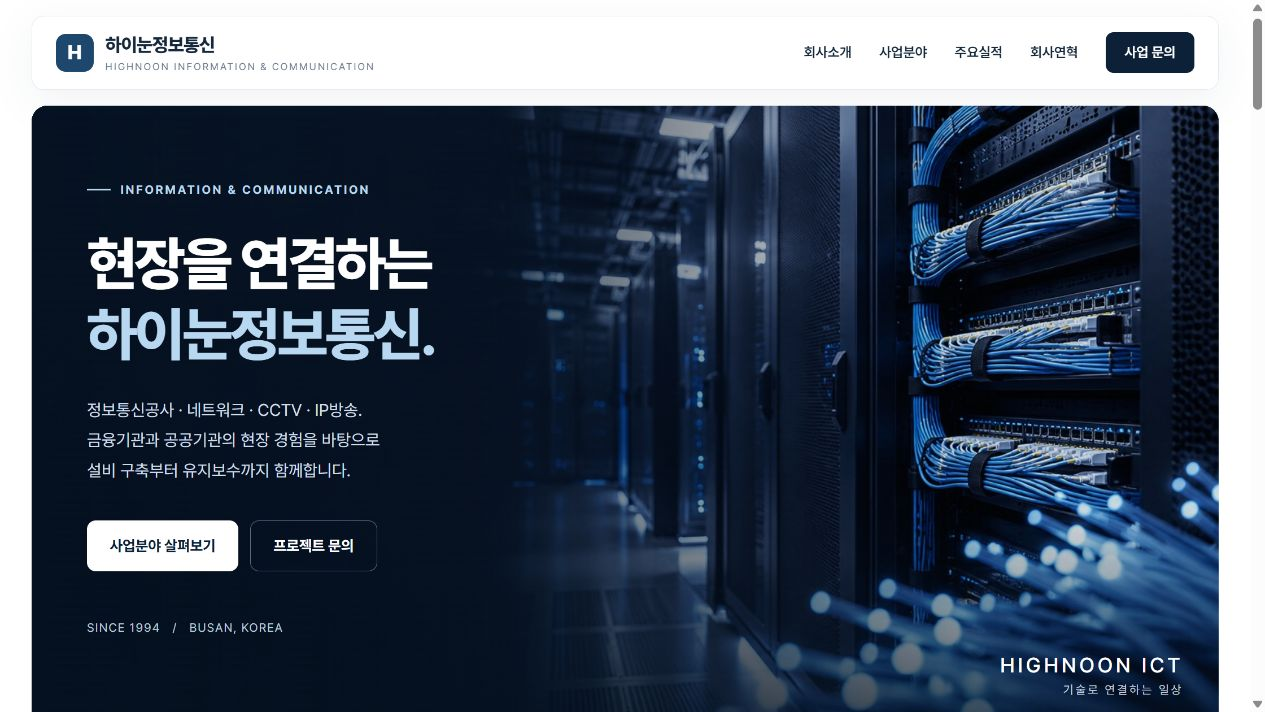
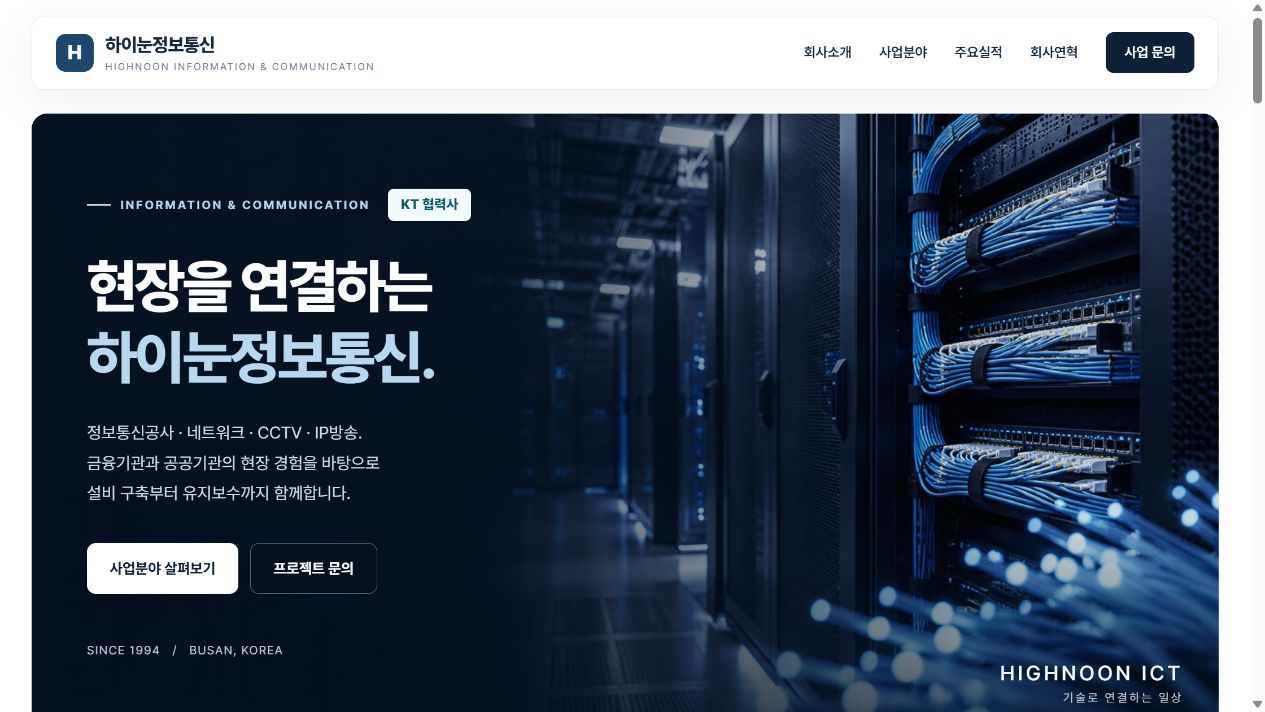
Publish KT partner badge and official introduction link

diff --git a/index.html b/index.html
@@ -24,6 +24,7 @@
     .hero{display:block;min-height:630px;border-radius:16px;background:#071324}.hero-copy{padding:76px 56px 62px;max-width:690px}.hero h1{font-size:clamp(38px,4.6vw,64px);line-height:1.22}.hero h1 span{color:#b8d7f0}.hero-desc{color:#d1dfeb}.hero-visual{position:absolute;inset:0;height:100%;pointer-events:none}.hero-visual img{filter:none;opacity:1;object-position:center}.hero-visual:after{background:linear-gradient(90deg,rgba(5,17,32,.93) 0%,rgba(5,17,32,.73) 34%,rgba(5,17,32,.13) 78%),linear-gradient(0deg,rgba(5,17,32,.75),transparent 36%)}.visual-label{right:36px;bottom:30px}.visual-label strong{font-size:21px;letter-spacing:3px}.hero-foot{color:#bbcede}.hero .eyebrow{color:#b8d7f0}.nav-shell{border-radius:12px}.brand-symbol{background:#1d476d}.service-feature{display:grid;grid-template-columns:1.05fr .95fr;background:white;border-radius:18px;overflow:hidden;margin-bottom:24px;border:1px solid rgba(42,70,105,.08)}.service-feature img{width:100%;height:100%;min-height:340px;max-height:410px;object-fit:cover}.service-feature-copy{padding:45px 40px;align-self:center}.service-feature-copy .eyebrow{font-size:11px}.service-feature-copy h3{font-size:29px;margin-top:18px;line-height:1.35}.service-feature-copy p{margin-top:18px;color:var(--muted);font-size:16px}.service-keywords{display:flex;flex-wrap:wrap;gap:12px;margin-top:25px}.service-keywords span{font-size:13px;font-weight:650;color:#355b7b;border-bottom:2px solid #bfd1df;padding-bottom:7px}.business-inner{min-height:250px}.business-card:first-child .business-inner{background:#14354e}
     @media(max-width:1050px){.hero-copy{padding-left:36px;max-width:610px}.service-feature-copy{padding:30px}}@media(max-width:767px){.hero{min-height:650px;border-radius:14px}.hero-copy{padding:40px 25px 170px;max-width:none}.hero h1{font-size:38px}.hero-desc{font-size:16px;max-width:290px}.hero-visual{position:absolute;height:100%;inset:0}.hero-visual img{object-position:63% center}.hero-visual:after{background:linear-gradient(180deg,rgba(5,17,32,.94),rgba(5,17,32,.78) 52%,rgba(5,17,32,.2)),linear-gradient(90deg,rgba(5,17,32,.4),transparent)}.visual-label{bottom:24px;right:24px}.visual-label strong{font-size:20px}.service-feature{grid-template-columns:1fr}.service-feature img{min-height:0;height:220px}.service-feature-copy{padding:28px 25px}.service-feature-copy h3{font-size:25px}.service-keywords{gap:10px}}
     body h2{font-size:clamp(29px,3vw,43px);font-weight:720;letter-spacing:-1.6px;line-height:1.3;margin-top:18px}body h3{font-size:24px;letter-spacing:-.7px;line-height:1.4;font-weight:650}@media(max-width:767px){body h2{font-size:31px;letter-spacing:-1px}body h3{font-size:22px}}
+    .hero-kicker{display:flex;gap:18px;align-items:center;flex-wrap:wrap}.partner-badge{display:inline-flex;padding:6px 13px;background:#f3fafb;color:#0b5964;border-radius:6px;font-size:14px;font-weight:750;letter-spacing:0}.partner-panel{display:flex;justify-content:space-between;align-items:center;gap:30px;padding:30px 34px;margin-top:30px;background:#f1f8fa;border:1px solid #d5e5e9;border-left:4px solid #148291;border-radius:12px}.partner-caption{font-size:12px;font-weight:650;color:#156775}.partner-panel h2{font-size:25px;margin-top:7px;letter-spacing:-.8px;line-height:1.4}.partner-panel p{font-size:15px;color:#53697a;margin-top:8px}.partner-link{flex-shrink:0;background:white;border:1px solid #bfd7df;border-radius:8px;padding:13px 20px;color:#125e6b;font-size:15px;font-weight:650;text-align:center;min-height:50px}.partner-link:hover{background:#e1f1f4;transform:translateY(-2px)}.new-tab-note{display:block;font-size:11px;font-weight:400;margin-top:3px;color:#526c76}.footer-links{flex-wrap:wrap}@media(max-width:767px){.hero-kicker{gap:12px}.partner-badge{font-size:13px}.hero-copy{padding-top:34px}.hero h1{margin-top:22px}.partner-panel{display:block;padding:23px 20px;margin-top:24px}.partner-panel h2{font-size:23px}.partner-panel p{font-size:14px}.partner-link{display:block;margin-top:20px}.footer-links{gap:18px}}
   </style>
 </head>
 <body>
@@ -36,14 +37,15 @@
   <main id="main">
     <div class="wrap">
       <section class="hero" aria-labelledby="hero-title">
-        <div class="hero-copy"><div class="eyebrow">INFORMATION & COMMUNICATION</div><h1 id="hero-title">현장을 연결하는<br><span>하이눈정보통신.</span></h1><p class="hero-desc">정보통신공사 · 네트워크 · CCTV · IP방송.<br>금융기관과 공공기관의 현장 경험을 바탕으로<br>설비 구축부터 유지보수까지 함께합니다.</p><div class="hero-actions"><a class="btn btn-light" href="#business">사업분야 살펴보기</a><a class="btn btn-outline" href="#contact">프로젝트 문의</a></div><p class="hero-foot">SINCE 1994 &nbsp; / &nbsp; BUSAN, KOREA</p></div>
+        <div class="hero-copy"><div class="hero-kicker"><div class="eyebrow">INFORMATION & COMMUNICATION</div><span class="partner-badge">KT 협력사</span></div><h1 id="hero-title">현장을 연결하는<br><span>하이눈정보통신.</span></h1><p class="hero-desc">정보통신공사 · 네트워크 · CCTV · IP방송.<br>금융기관과 공공기관의 현장 경험을 바탕으로<br>설비 구축부터 유지보수까지 함께합니다.</p><div class="hero-actions"><a class="btn btn-light" href="#business">사업분야 살펴보기</a><a class="btn btn-outline" href="#contact">프로젝트 문의</a></div><p class="hero-foot">SINCE 1994 &nbsp; / &nbsp; BUSAN, KOREA</p></div>
         <div class="hero-visual"><img src="assets/network-hero.jpg" alt="서버 랙과 광통신 케이블을 표현한 통신 인프라 이미지" decoding="async" fetchpriority="high"><div class="visual-label"><strong>HIGHNOON ICT</strong>기술로 연결하는 일상</div></div>
       </section>
-      <div class="trust" aria-label="기업 핵심 정보"><div class="trust-item"><strong>1994.12</strong><span>기업 설립</span></div><div class="trust-item"><strong>정보통신공사</strong><span>설계 · 시공 · 유지보수</span></div><div class="trust-item"><strong>금융 · 공공</strong><span>기관별 통신시설 구축 경험</span></div><div class="trust-item"><strong>부산 기반</strong><span>현장을 이해하는 기술 파트너</span></div></div>
+      <div class="trust" aria-label="기업 핵심 정보"><div class="trust-item"><strong>1994.12</strong><span>기업 설립</span></div><div class="trust-item"><strong>정보통신공사</strong><span>설계 · 시공 · 유지보수</span></div><div class="trust-item"><strong>금융 · 공공</strong><span>기관별 통신시설 구축 경험</span></div><div class="trust-item"><strong>KT 협력사</strong><span>통신 인프라 구축 · 유지보수</span></div></div>
+      <aside class="partner-panel" aria-labelledby="partner-title"><div><span class="partner-caption">협력사 소개</span><h2 id="partner-title">KT 협력사, 하이눈정보통신</h2><p>현장에 필요한 통신시설을 구축하고, 안정적인 운영과 유지보수를 지원합니다.</p></div><a class="partner-link" href="https://corp.kt.com/html/intro/main.html" target="_blank" rel="noopener noreferrer">KT 공식 기업소개 보기<span class="new-tab-note">새 창으로 열기</span></a></aside>
     </div>
     <section id="about" class="section"><div class="wrap intro-layout">
-      <div class="intro-copy reveal"><div class="eyebrow">ABOUT HIGHNOON</div><h2>통신시설 구축부터<br>안정적인 운영까지.</h2><p>하이눈정보통신은 1994년 설립된 부산 소재 정보통신 기업입니다. 금융기관과 공공기관의 다양한 현장에서 통신시설을 구축하고 유지보수하며 경험을 쌓아왔습니다.</p><p>네트워크와 CCTV, 전화교환기, IP방송 등 현장에 맞는 시스템을 구성하고 지속적인 운영을 지원합니다.</p></div>
-      <div class="reveal"><dl class="company-facts"><div><dt>회사명</dt><dd>하이눈정보통신</dd></div><div><dt>대표</dt><dd>방호영</dd></div><div><dt>설립</dt><dd>1994년 12월</dd></div><div><dt>주요 사업</dt><dd>정보통신공사 · CCTV · IPTV · IP방송<br>전화교환기 · 전산 LAN 시공 및 유지보수</dd></div><div><dt>소재지</dt><dd>부산광역시 연제구 거제대로252번길 32</dd></div></dl><p class="quiet-note">회사 기본정보는 제공된 회사 지명원을 기준으로 작성했습니다.</p></div>
+      <div class="intro-copy reveal"><div class="eyebrow">ABOUT HIGHNOON</div><h2>통신시설 구축부터<br>안정적인 운영까지.</h2><p>하이눈정보통신은 1994년 설립된 부산 소재 정보통신 기업이자 KT 협력사입니다. 금융기관과 공공기관의 다양한 현장에서 통신시설을 구축하고 유지보수하며 경험을 쌓아왔습니다.</p><p>네트워크와 CCTV, 전화교환기, IP방송 등 현장에 맞는 시스템을 구성하고 지속적인 운영을 지원합니다.</p></div>
+      <div class="reveal"><dl class="company-facts"><div><dt>회사명</dt><dd>하이눈정보통신</dd></div><div><dt>대표</dt><dd>방호영</dd></div><div><dt>설립</dt><dd>1994년 12월</dd></div><div><dt>협력관계</dt><dd>KT 협력사</dd></div><div><dt>주요 사업</dt><dd>정보통신공사 · CCTV · IPTV · IP방송<br>전화교환기 · 전산 LAN 시공 및 유지보수</dd></div><div><dt>소재지</dt><dd>부산광역시 연제구 거제대로252번길 32</dd></div></dl><p class="quiet-note">회사 기본정보는 제공된 회사 지명원을 기준으로 작성했습니다.</p></div>
     </div></section>
     <section id="business" class="section business"><div class="wrap">
       <div class="section-top reveal"><div><div class="eyebrow">OUR BUSINESS</div><h2>현장에 맞는 연결을 설계합니다.</h2></div><p>통신과 영상, 방송 시스템을 구축하고<br>설비가 제 역할을 하도록 관리합니다.</p></div>
@@ -74,7 +76,7 @@
       <div class="contact-list reveal"><a href="tel:0518660377"><iconify-icon icon="solar:phone-linear" aria-hidden="true"></iconify-icon><span><small>대표전화</small><strong>051-866-0377</strong></span></a><a href="mailto:highnoon0377@naver.com"><iconify-icon icon="solar:letter-linear" aria-hidden="true"></iconify-icon><span><small>이메일</small><strong>highnoon0377@naver.com</strong></span></a><div class="address"><iconify-icon icon="solar:map-point-linear" aria-hidden="true"></iconify-icon><span><small>주소</small><strong>부산광역시 연제구<br>거제대로252번길 32</strong></span></div><p class="quiet-note">FAX 051-865-0671 · 연락처는 제공 지명원 기준입니다.</p></div>
     </div></section>
   </main>
-  <footer><div class="wrap footer-row"><div><strong>하이눈정보통신</strong><p>대표 방호영 · 사업자등록번호 607-51-78688<br>© 2026 HIGHNOON INFORMATION & COMMUNICATION. All rights reserved.</p></div><div class="footer-links"><a href="#about">회사소개</a><a href="#business">사업분야</a><a href="#contact">문의하기</a></div></div></footer>
+  <footer><div class="wrap footer-row"><div><strong>하이눈정보통신</strong><p>대표 방호영 · 사업자등록번호 607-51-78688<br>© 2026 HIGHNOON INFORMATION & COMMUNICATION. All rights reserved.</p></div><div class="footer-links"><a href="#about">회사소개</a><a href="#business">사업분야</a><a href="#contact">문의하기</a><a href="https://corp.kt.com/html/intro/main.html" target="_blank" rel="noopener noreferrer">KT 공식 홈페이지</a></div></div></footer>
   <script>
     const toggle=document.querySelector('.menu-toggle');
     const nav=document.querySelector('#navigation');

diff --git a/README.md b/README.md
@@ -4,7 +4,7 @@
 
 **[하이눈정보통신 홈페이지 열기](https://kclock-boop.github.io/hinoonict/)**
 
-정보통신공사, 네트워크, CCTV, IP방송과 유지보수 사업을 소개합니다.
+KT 협력사 하이눈정보통신의 정보통신공사, 네트워크, CCTV, IP방송과 유지보수 사업을 소개합니다.
 회사소개 · 사업분야 · 주요실적 · 회사연혁 · 문의 안내를 PC와 모바일에서 확인할 수 있습니다.
 
 ![하이눈정보통신 홈페이지 미리보기](./홈페이지_미리보기.png)
@@ -24,6 +24,8 @@ H 문자 표식은 공식 로고를 대신한 임시 표식입니다.
 원본 PDF와 개인별 훈련 정보는 저장소에 포함하지 않습니다.
 
 수정일: 2026-10-02
+KT 기업소개: https://corp.kt.com/html/intro/main.html
+
 ## 관련 링크
 
 - [국가직무능력표준](https://www.ncs.go.kr/index.do)
